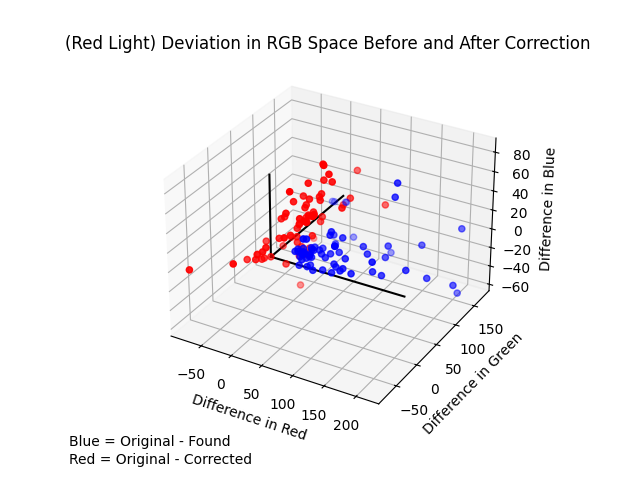
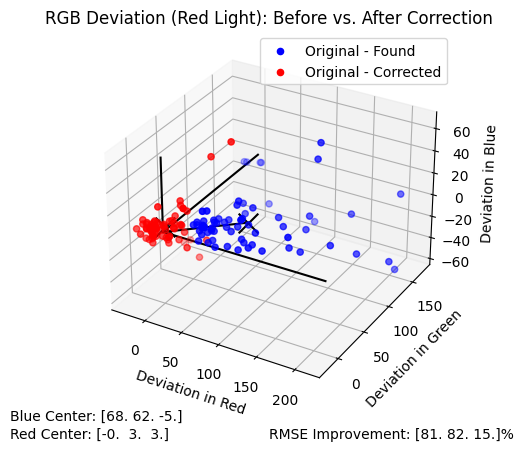
Apaltest results and mods

diff --git a/P3/Objective_testing/APalTest.py b/P3/Objective_testing/APalTest.py
@@ -38,9 +38,10 @@ def get_pal_diff(ref_pal, checker, corrected_palette):
     ax = fig.add_subplot(111, projection='3d')
     ax.scatter(found_pal_diff[:,0], found_pal_diff[:,1], found_pal_diff[:,2], c='b', marker='o')
     ax.scatter(cc_pal_diff[:,0], cc_pal_diff[:,1], cc_pal_diff[:,2], c='r', marker='o')
-    #write underneath the plot that the blue is the found and red is the corrected
-    ax.text2D(-0.2, -0.05, "Blue = Original - Found", transform=ax.transAxes)
-    ax.text2D(-0.2, -0.1, "Red = Original - Corrected", transform=ax.transAxes)
+    #add legend
+    ax.legend(['Original - Found', 'Original - Corrected'])
+
+
     #add the x,y,z axis line at 0,0,0
     #get the higest positive value of either found or corrected for all 3 channels
     max_diffx = max(max(found_pal_diff[:,0]), max(cc_pal_diff[:,0]))
@@ -51,19 +52,50 @@ def get_pal_diff(ref_pal, checker, corrected_palette):
     ax.plot([0, 0], [0, max_diffy], [0, 0], c='black')
     ax.plot([0, 0], [0, 0], [0, max_diffz], c='black')
 
+    #find the center for both red and blue
+    center_found = np.mean(found_pal_diff, axis=0)
+    center_cc = np.mean(cc_pal_diff, axis=0)
+    #plot the center for both red and blue larger and on top of the other points
+    ax.scatter(center_found[0], center_found[1], center_found[2], c='black', marker='x', s=200, label='linear')
+    ax.scatter(center_cc[0], center_cc[1], center_cc[2], c='black', marker='x', s=200, label='linearx')
+    #plot a line from the center to 0,0,0
+    ax.plot([center_found[0], 0], [center_found[1], 0], [center_found[2], 0], c='black')
+    ax.plot([center_cc[0], 0], [center_cc[1], 0], [center_cc[2], 0], c='black')
+
+    #print the length of the line from the center to 0,0,0
+    #ax.text2D(-0.2, -0.02, "Blue Center to origo: " + str(round(np.linalg.norm(center_found))), transform=ax.transAxes)
+    ax.text2D(-0.2, -0.05, "Blue Center: " + str(np.round(center_found)), transform=ax.transAxes)
+    ax.text2D(-0.2, -0.1, "Red Center: " + str(np.round(center_cc)), transform=ax.transAxes)
+
+    MSE_found = np.mean(np.square(found_pal_diff), axis=0)
+    MSE_cc = np.mean(np.square(cc_pal_diff), axis=0)
+    RMSE_found = np.sqrt(MSE_found)
+    RMSE_cc = np.sqrt(MSE_cc)
+    print("RMSE Found", RMSE_found)
+    print("RMSE CC", RMSE_cc)
+    RMSE_improvement = (RMSE_found - RMSE_cc) / RMSE_found * 100
+
+    ax.text2D(0.5, -0.1, "RMSE Improvement: " + str(np.round(RMSE_improvement)) + "%", transform=ax.transAxes)
+
+    #ax.text2D(-0.2, -0.12, "Average Improvement: " + str(round(improvement)) + "%", transform=ax.transAxes)
+
+    
+
 
     #set plot title
-    ax.set_title('(Yellow Light) Deviation in RGB Space Before and After Correction')
+    ax.set_title('RGB Deviation (Yellow Light): Before vs. After Correction')
 
-    ax.set_xlabel('Difference in Red')
-    ax.set_ylabel('Difference in Green')
-    ax.set_zlabel('Difference in Blue')
+    ax.set_xlabel('Deviation in Red')
+    ax.set_ylabel('Deviation in Green')
+    ax.set_zlabel('Deviation in Blue')
 
     #save the plot at P3\Results\Data\colcaltest\results as a png with the name *color*_plot.png
-    #plt.savefig('P3\Results\Data\colcaltest/results/yellow_plot.png')
+    #plt.savefig('P3\Results\Data\colcaltest/results/yellow_plot.png', bbox_inches='tight')
 
 
-    plt.show()
+    #plt.show()
+
+
     
 
 if checkertest:

diff --git a/P3/Objective_testing/Objective_testing.py b/P3/Objective_testing/Objective_testing.py
@@ -56,31 +56,44 @@ def AverageGradient(imgX):
 
 def OTmethodsSingleImage(reference, dehazed):
     reference = cv2.imread(reference)
-    Original = cv2.imread("P3\Results\Data\GroundTruth\Beside_Camera_AutoTarget5_light5_exp29311.0_20242211_103548.png")
+    Original = cv2.cvtColor(cv2.imread("P3\Results\Data\GroundTruth\Beside_Camera_AutoTarget5_light5_exp29311.0_20242211_103548.png"), cv2.COLOR_BGR2RGB)
+    import matplotlib.pyplot as plt
+
     #OriginalChecker = cv2.resize( cv2.imread("P3\Palette_detection\Colour_checker_from_Vikki_full.png")[170: 997, 520: 1705], (enhancedChecker.shape[1],enhancedChecker.shape[0]), interpolation=cv2.INTER_AREA)
     #referenceChecker = cv2.cvtColor(referenceChecker, cv2.COLOR_BGR2RGB)
     #enhancedChecker = cv2.cvtColor(enhancedChecker, cv2.COLOR_BGR2RGB)
 
     #PsnrGroundVSReference = OPSNR(OriginalChecker, referenceChecker)
     #PsnrGroundVSEnhanced = OPSNR(OriginalChecker, enhancedChecker)
+
+
     MBEGroundVSReference = MeanBrightnessError(Original, reference)
-    #MBEGroundVSEnhanced = MeanBrightnessError(Original, Improved)
     MBEGroundVsDehazed = MeanBrightnessError(Original, dehazed)
 
     AGGround = AverageGradient(Original)
     AGReference = AverageGradient(reference)
-    #AGEnhanced = AverageGradient(Improved)
     AGDehazed = AverageGradient(dehazed)
 
-    #print("PSNR Ground vs Reference:", PsnrGroundVSReference)
-    #print("PSNR Ground vs Enhanced:", PsnrGroundVSEnhanced)
+    #checker comparison
+    template = cv2.resize(cv2.imread("P3\Palette_detection\Colour_checker_from_Vikki_full.png"), (606, 318), interpolation=cv2.INTER_AREA)
+
+    original_checker, corners, wrap_matrix, loc= lc.LocateChecker(Original, template)
+    reference_checker, corners, wrap_matrix, loc= lc.LocateChecker(reference, template)
+    dehazed_checker, corners, wrap_matrix, loc= lc.LocateChecker(dehazed, template)
+
+    PSNRGroundVSReference = OPSNR(original_checker, reference_checker)
+    PSNRGroundVsDehazed = OPSNR(original_checker, dehazed_checker)
+
     print("MBE Ground vs Reference:", MBEGroundVSReference)
-    #print("MBE Ground vs Enhanced:", MBEGroundVSEnhanced)
     print("MBE Ground vs Dehazed:", MBEGroundVsDehazed)
+    print("----------------------")
     print("AG Ground:", AGGround)
     print("AG Reference:", AGReference)
-    #print("AG Enhanced:", AGEnhanced)
     print("AG Dehazed:", AGDehazed)
+    print("----------------------")
+    print("PSNR Checker Ground vs Reference:", PSNRGroundVSReference)
+    print("PSNR Checker Ground vs Dehazed:", PSNRGroundVsDehazed)
+
     return
 
 
